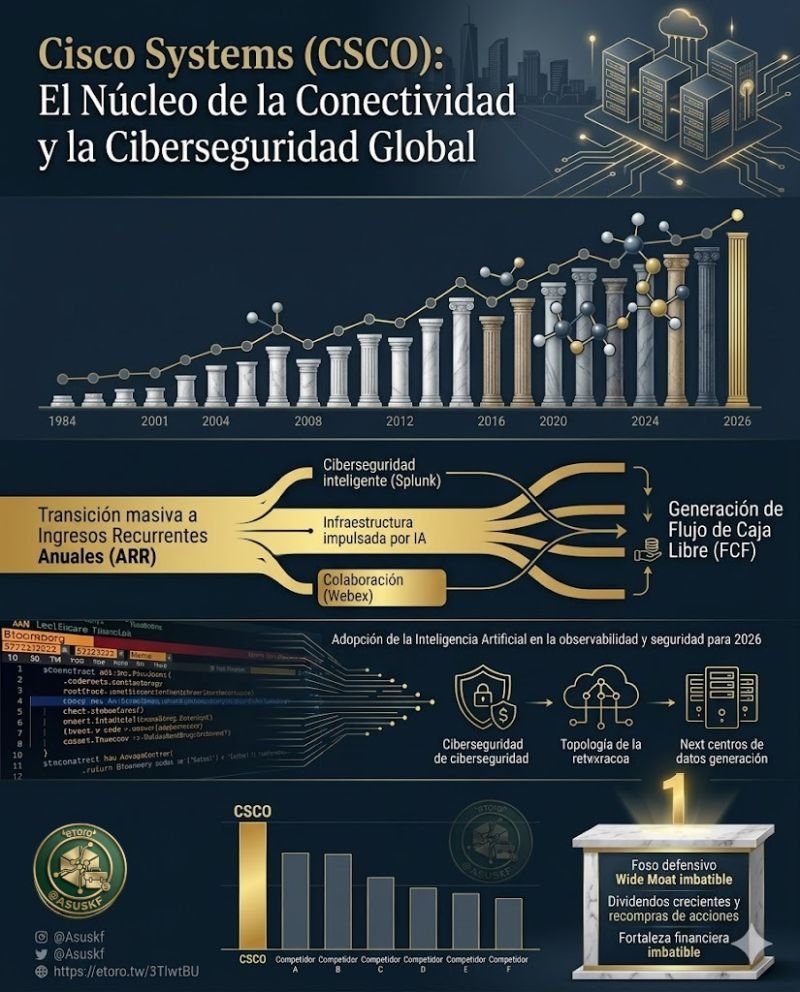
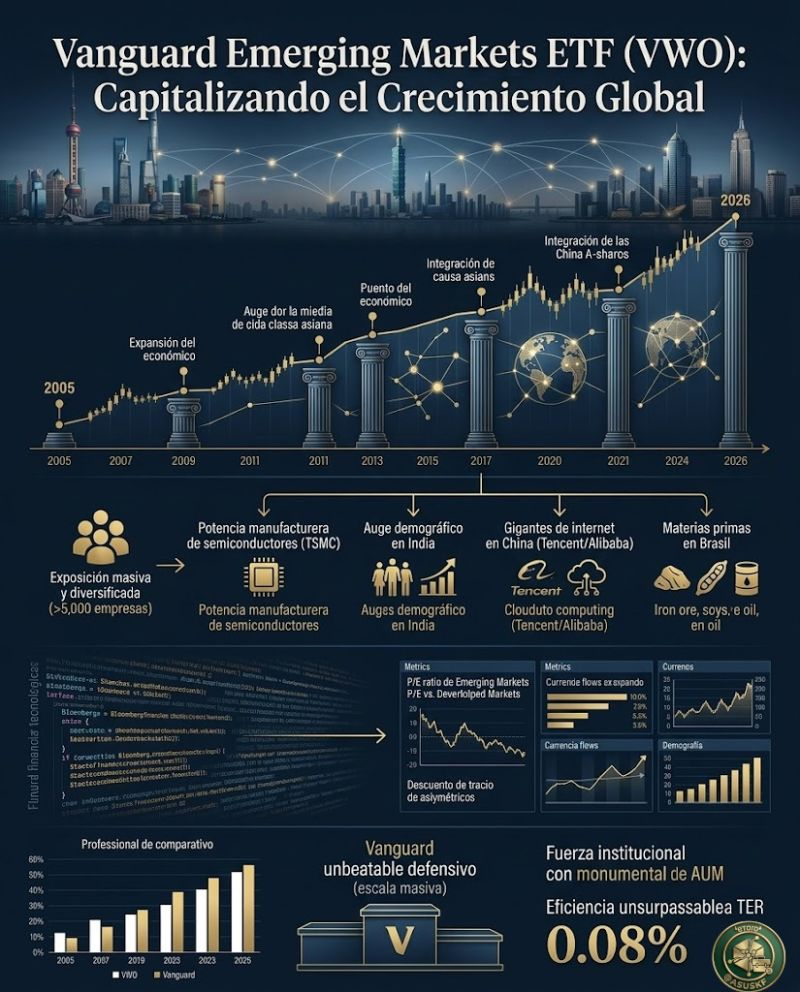
feat(chore) Update values
Corrects the 2026 data in assets/js/main.js (monthly value changed from -0.90% to -3.30% and annual total from 14.85% to 14.44%), updates the featured YouTube link/thumb and alt text in index.html to the new video (id dGJOnuv0StY), and replaces the assets/images/insight_semana.jpg binary asset.

diff --git a/index.html b/index.html
@@ -189,8 +189,8 @@
                 <div id="contenido" class="card card-youtube reveal delay-1">
                     <h3>Último Video de YouTube</h3>
                     <div class="video-container custom-thumbnail">
-                        <a href="https://www.youtube.com/watch?v=Gw-4fmioSx4" target="_blank" rel="noopener noreferrer" class="youtube-thumbnail-link">
-                            <img src="https://img.youtube.com/vi/Gw-4fmioSx4/maxresdefault.jpg" alt="Análisis de Cisco (CSCO): Dividendos, el Peligro de Splunk y la IA" style="width: 100%; max-width: 560px; height: auto;">
+                        <a href="https://www.youtube.com/watch?v=dGJOnuv0StY" target="_blank" rel="noopener noreferrer" class="youtube-thumbnail-link">
+                            <img src="https://img.youtube.com/vi/dGJOnuv0StY/maxresdefault.jpg" alt="Texas Instruments (TXN): ¿Fortaleza Inexpugnable o Trampa de Valor? | Análisis Profundo 2026" style="width: 100%; max-width: 560px; height: auto;">
                             <div class="play-button">▶</div>
                         </a>
                     </div>

diff --git a/assets/js/main.js b/assets/js/main.js
@@ -2,7 +2,7 @@
 // DATOS CENTRALIZADOS
 // =========================================
 const matrixData = [
-    ["2026", "1.84%", "0.46%", "-5.80%", "11.69%", "9.95%", "-0.90%", "", "", "", "", "", "", "14.85%"],
+    ["2026", "1.84%", "0.46%", "-5.80%", "11.69%", "9.95%", "-3.30%", "", "", "", "", "", "", "14.44%"],
     ["2025", "1.96%", "-1.47%", "-6.58%", "0.79%", "5.60%", "6.49%", "1.81%", "1.05%", "4.55%", "3.23%", "-0.93%", "0.81%", "17.96%"],
     ["2024", "1.11%", "4.45%", "1.42%", "-5.78%", "7.31%", "6.28%", "-0.33%", "2.14%", "2.33%", "-1.34%", "2.58%", "-2.26%", "18.60%"],
     ["2023", "9.76%", "-1.07%", "6.28%", "-0.06%", "5.56%", "5.71%", "2.80%", "-2.33%", "-6.89%", "-2.02%", "12.75%", "5.77%", "40.59%"],
